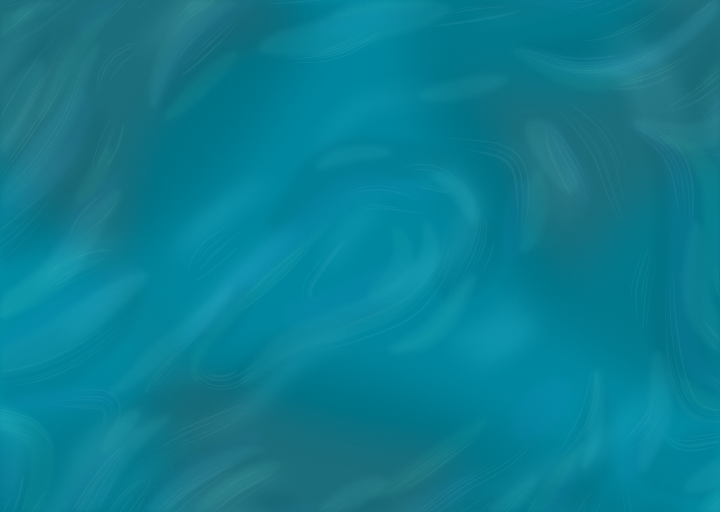
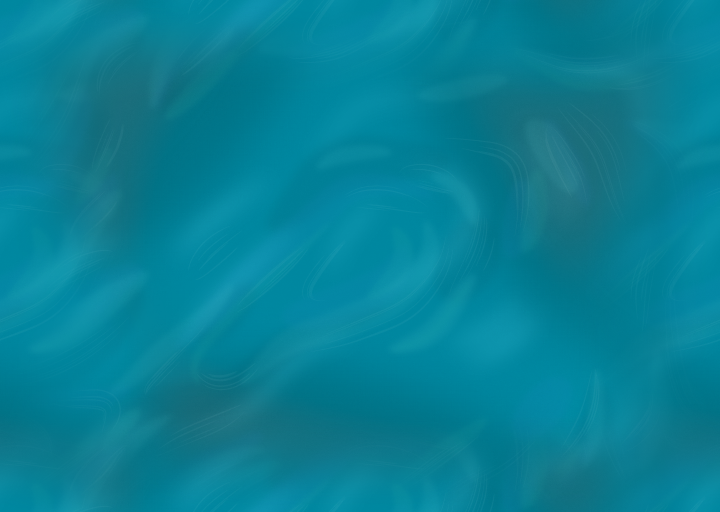
Water-only margins and seamless tiling water (#11)
- Fade page content and lily pads out past the frame edge so margins show only water
- Current page's water owns the margins; other pages' water is masked there
- Make water textures tileable and repeat them instead of mirroring

Claude-Session: https://claude.ai/code/session_01BaK7PRdKtw21ohF7UwnR1N

diff --git a/index.html b/index.html
@@ -458,7 +458,7 @@
       float m = 0.0;
       if (hu.x > 0.0 && hu.x < 1.0 && hu.y > 0.0 && hu.y < 1.0) m = texture2D(halo, hu).a * 0.5 * smoothstep(ovrY.x, ovrY.y, wpos.y);
       if (m > 0.0 && c.a > 0.001) c.rgb = mix(c.rgb, vec3(0.05, 0.40, 0.46) * c.a, m);
-      if (edge > 0.5) { float o = max(max(-spv.x, spv.x - 1440.0), max(-spv.y, spv.y - 1024.0)); c *= 1.0 - smoothstep(0.0, 160.0, o); }   // a page's own pads fade past its frame
+      if (edge > 0.5) { float o = max(max(-spv.x, spv.x - 1440.0), max(-spv.y, spv.y - 1024.0)); c *= 1.0 - smoothstep(0.0, 40.0, o); }   // a page's pads stay inside its frame
       gl_FragColor = c;
     }`;
   function sh(type, src){ const s = gl.createShader(type); gl.shaderSource(s, src); gl.compileShader(s); return s; }
@@ -486,13 +486,15 @@
     #else
     precision mediump float;
     #endif
-    varying vec2 uv; varying vec2 wp; varying vec2 sp; uniform sampler2D t; uniform vec4 src; uniform vec4 fade; uniform vec4 fadex; uniform float time; uniform int mode; uniform vec2 body[16]; uniform vec3 trail[32];
+    varying vec2 uv; varying vec2 wp; varying vec2 sp; uniform sampler2D t; uniform vec4 src; uniform vec4 fade; uniform vec4 fadex; uniform float time; uniform float edgeK; uniform float rep; uniform float own; uniform int mode; uniform vec2 body[16]; uniform vec3 trail[32];
     void main(){
       // one continuous pond: texture coords come from world position, mirrored past the image edge,
       // so a section's water can run on under the next one while it cross-fades
       vec2 tu = (wp - src.xy) / src.zw;
-      tu = 1.0 - abs(mod(tu, 2.0) - 1.0);           // mirrored again and again, so the water never runs out
+      if (rep > 0.5) tu = fract(tu);                // her water is made tileable, so it repeats with no seam
+      else tu = 1.0 - abs(mod(tu, 2.0) - 1.0);      // the art pond (with its painted pads) mirrors instead
       float a = smoothstep(fade.x, fade.y, wp.y) * (1.0 - smoothstep(fade.z, fade.w, wp.y)) * smoothstep(fadex.x, fadex.y, wp.x);
+      a = mix(a, 1.0, own);                          // the page you're on owns the whole window: one water, edge to edge
       vec2 q = wp / 1024.0;
       vec2 d = vec2(sin(q.y*7.0 + time*0.35) + sin((q.x+q.y)*11.0 - time*0.27),
                     cos(q.x*6.0 - time*0.31) + sin((q.x-q.y)*9.0 + time*0.22)) * 0.0016;
@@ -504,13 +506,14 @@
         float wave = life * exp(-tr.z * 0.45) * sin(l * 0.055 - tr.z * 2.4) * exp(-l / 210.0);
         w += r / l * 13.0 * wave; glow += max(wave, 0.0); } }
       d += w / vec2(1440.0, 1024.0);
-      if (mode == 3) {                                                     // lettering: stays crisp and still
-        float o = max(max(-sp.x, sp.x - 1440.0), max(-sp.y, sp.y - 1024.0)); // past her frame, a neighbouring page's words and photo fade away softly
-        gl_FragColor = texture2D(t, tu) * a * (1.0 - smoothstep(0.0, 160.0, o)); return; }
+      // past her frame the window shows only water: a neighbouring page's words, photo and pads stop at the frame edge
+      float o = max(max(-sp.x, sp.x - 1440.0), max(-sp.y, sp.y - 1024.0)), outK = smoothstep(0.0, 40.0, o);
+      if (mode == 3) { gl_FragColor = texture2D(t, tu) * a * (1.0 - outK); return; }      // lettering: stays crisp and still
       vec4 c = texture2D(t, tu + d);
       if (mode == 0) {                                                     // base water + drifting light
         float l = sin(q.x*5.0 + q.y*3.0 + sin(q.y*4.0 - time*0.2)*1.6 - time*0.18);
         c.rgb += vec3(0.8, 1.0, 1.0) * (min(glow, 1.5) * 0.045 + smoothstep(0.75, 1.0, l) * 0.035);
+        if (edgeK > 0.0) { a *= 1.0 - edgeK * outK; if (a <= 0.001) discard; }   // a later page's water (and the art pond's pads) stays out of this page's margins
         gl_FragColor = vec4(c.rgb, 1.0) * a;
       } else if (mode == 2) {                                              // white lines, added like linear dodge
         gl_FragColor = vec4(vec3(c.a * 0.15 * a), 0.0);
@@ -521,7 +524,7 @@
   const wU = { t: gl.getUniformLocation(wprog, 'time'), m: gl.getUniformLocation(wprog, 'mode'), b: gl.getUniformLocation(wprog, 'body'), tr: gl.getUniformLocation(wprog, 'trail'), r: gl.getUniformLocation(wprog, 'rect'), sr: gl.getUniformLocation(wprog, 'src'), f: gl.getUniformLocation(wprog, 'fade'), fx: gl.getUniformLocation(wprog, 'fadex'), c: gl.getUniformLocation(wprog, 'cam') };
   const uCam = gl.getUniformLocation(prog, 'cam'); let cam = 0, camX = 0, camZ = 1;
   const view = () => [camX - EXT[0] / camZ, cam - EXT[1] / camZ, camX + (1440 + EXT[0]) / camZ, cam + (1024 + EXT[1]) / camZ];
-  const uEdge = gl.getUniformLocation(prog, 'edge'), uExt = gl.getUniformLocation(prog, 'ext'), wExt = gl.getUniformLocation(wprog, 'ext');
+  const wEdge = gl.getUniformLocation(wprog, 'edgeK'), wRep = gl.getUniformLocation(wprog, 'rep'), wOwn = gl.getUniformLocation(wprog, 'own'), uEdge = gl.getUniformLocation(prog, 'edge'), uExt = gl.getUniformLocation(prog, 'ext'), wExt = gl.getUniformLocation(wprog, 'ext');
   const quad = gl.createBuffer(); gl.bindBuffer(gl.ARRAY_BUFFER, quad); gl.bufferData(gl.ARRAY_BUFFER, new Float32Array([-1,-1, 1,-1, -1,1, 1,1]), gl.STATIC_DRAW);
   const bodyArr = new Float32Array(32), trailArr = new Float32Array(96);
   function texFrom(img) {
@@ -543,17 +546,19 @@
   // no edge between the sections: the Landing water runs on below its frame and the About water fades in over it
   const BLEND = 300, NOFADE = [-1e6, -1e6, 1e6, 1e6];
   RECT.pond = RECT.base;
-  const DRAW = { pond: [-8000, -6000, 30000, 20000], base: [-700, 0, 2840, AY + BLEND], texture: [-700, 0, 2840, AY + BLEND], lines: [-700, 0, 2840, AY + BLEND], aboutWater: [-700, AY - BLEND, 2840, 1024 * AS + BLEND] };   // runs past the frame edges (mirrored) for the pulled-back view
+  const DRAW = { pond: [-8000, -6000, 30000, 20000], base: [-4000, -3000, 9440, AY + BLEND + 3000], texture: [-4000, -3000, 9440, AY + BLEND + 3000], lines: [-4000, -3000, 9440, AY + BLEND + 3000], aboutWater: [-4000, AY - BLEND, 9440, 1024 * AS + BLEND + 3000] };   // runs past the frame edges (mirrored) for the pulled-back view
   RECT.worksWater = [WX, AY, 1440 * AS, 1024 * AS]; RECT.worksTop = RECT.worksWater.slice();
   RECT.artWater = [GX, AY, GW * AS, GH * AS]; RECT.artTop = [GX + 930 * AS, AY + 250 * AS, 1440 * AS, GH * AS];   // her "fine art" lettering sits in the open water right of the lotus lockup
-  DRAW.worksWater = [WX - BLEND, AY - BLEND, 1440 * AS + 2 * BLEND, 1024 * AS + 2 * BLEND];
+  DRAW.worksWater = [WX - 3000, AY - 3000, 1440 * AS + 6000, 1024 * AS + 6000];   // FADEX/FADE still blend it in during the swim over
   DRAW.artWater = [GX, AY - BLEND, GW * AS + 900, GH * AS + 900];   // starts at its own edge: a mirrored copy of her big pads used to spill under the tbd pad on currently
   const FADEX = { worksWater: [WX - BLEND, WX + BLEND, 0, 0], artWater: [GX, GX + 140, 0, 0] };   // each page's water flows in sideways over the last
   const FADE = { worksWater: [AY - BLEND, AY + BLEND, 1e6, 1e6], artWater: [AY - BLEND, AY + BLEND, 1e6, 1e6], texture: [-1e6, -1e6, AY - BLEND, AY + BLEND], lines: [-1e6, -1e6, AY - BLEND, AY + BLEND], aboutWater: [AY - BLEND, AY + BLEND, 1e6, 1e6] };
   function drawLayer(name, mode) {
     if (!LAYER[name]) return;
     const sr = RECT[name], r = DRAW[name] || sr, vw = view(); if (r[1] > vw[3] || r[1] + r[3] < vw[1]) return;
-    gl.useProgram(wprog); gl.uniform4fv(wU.r, r); gl.uniform4fv(wU.sr, sr); gl.uniform4fv(wU.f, FADE[name] || NOFADE); gl.uniform4fv(wU.fx, FADEX[name] || [-1e6, -9e5, 0, 0]);
+    gl.useProgram(wprog); gl.uniform4fv(wU.r, r); gl.uniform4fv(wU.sr, sr); gl.uniform4fv(wU.f, FADE[name] || NOFADE); gl.uniform4fv(wU.fx, FADEX[name] || [-1e6, -9e5, 0, 0]); { const oi = WATER_ORDER.indexOf(ownerShown), ni = WATER_ORDER.indexOf(name);
+      gl.uniform1f(wEdge, ni > oi && oi >= 0 ? ownerK : 0); gl.uniform1f(wOwn, name === ownerShown ? ownerK : 0); }
+    gl.uniform1f(wRep, name === 'artWater' ? 0 : 1);
     gl.useProgram(wprog); gl.disableVertexAttribArray(aUV);
     gl.bindBuffer(gl.ARRAY_BUFFER, quad); gl.enableVertexAttribArray(wAP); gl.vertexAttribPointer(wAP, 2, gl.FLOAT, false, 0, 0);
     gl.uniform1i(wU.m, mode); gl.bindTexture(gl.TEXTURE_2D, LAYER[name]); gl.drawArrays(gl.TRIANGLE_STRIP, 0, 4);
@@ -810,7 +815,8 @@
   window.__cam = () => [t, camX, cam, camZ, page, camAnim && camAnim.p, camAnim && camAnim.t, scrollY].map(v => typeof v === "number" ? +v.toFixed(3) : v);
   window.__dbg = () => KOI.map(k => [k.name, Math.round(k.speed * k.sc * k.boost), k.trans ? 'curve' : 'loop', k.boost.toFixed(2), (k.space||1).toFixed(2), k.plan && k.td ? Math.round(k.plan.u - (k.td[k.td.length-1] - k.dist)) % Math.round(k.plan.loop.P) : 0].join(' ')).join(' | ');
   window.__heads = () => KOI.map(k => k.tp ? trackAt(k, k.dist).p.map(Math.round) : null).concat([ART_OVAL.P, koiDY]);
-  let koiDX = 0, koiDY = 0, koiT = [0, 0], lastScrollT = -1e9, mouse = null, lastY = 0, page = 'home', home = [0, 0, 1], artX = 0, camAnim = null;
+  const WATER_ORDER = ['base', 'aboutWater', 'worksWater', 'artWater'];   // draw order of the pages' water
+  let ownerShown = 'base', ownerK = 0, koiDX = 0, koiDY = 0, koiT = [0, 0], lastScrollT = -1e9, mouse = null, lastY = 0, page = 'home', home = [0, 0, 1], artX = 0, camAnim = null;
   const pondH = () => frameRect().height || innerHeight;
   function camTarget() {
     if (page === 'works') return [WX, AY, Z];
@@ -1060,6 +1066,11 @@
     const dt = last === null ? 0 : Math.min(0.05, (now - last) / 1000); last = now;
     if (running || t === 0 || dirty) { dirty = false;
       t += dt; stepCam(dt); placeUI();
+      { // the page you're on owns the window: its water fills every margin and later pages' water stays out of them
+        const T = page === 'works' ? 'worksWater' : page === 'art' ? 'artWater' : scrollY > innerHeight * 0.5 ? 'aboutWater' : 'base';
+        const g = T !== ownerShown || camAnim ? 0 : 1, k = dt ? 1 - Math.exp(-dt * 4) : 1;
+        ownerK += (g - ownerK) * k; if (Math.abs(g - ownerK) < 0.003) ownerK = g; else dirty = true;
+        if (T !== ownerShown && ownerK < 0.01) { ownerShown = T; ownerK = 0; dirty = true; } }
       { const tx = 0;                                 // the koi keep to their own path between the paintings
         koiDX += (tx - koiDX) * (dt ? 1 - Math.exp(-dt * 3) : 1); if (Math.abs(tx - koiDX) > 0.5) dirty = true; }
       const koiCam = on => gl.uniform3f(uCam, camX - (on ? koiDX : 0), cam - (on ? koiDY : 0), camZ);
